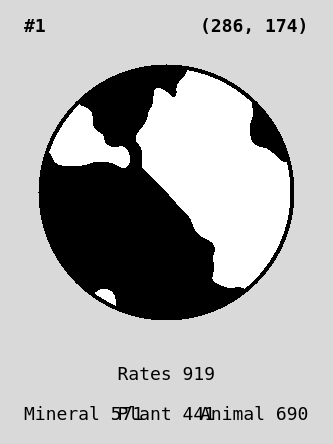
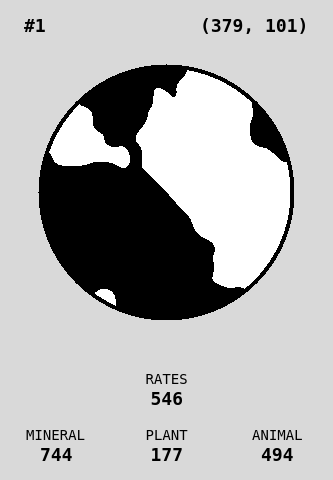
update planet text

diff --git a/index.js b/index.js
@@ -7,7 +7,7 @@ const { writeFileSync } = require('fs')
 const seed = 1
 
 const generatePlanet = () => {
-  const canvas = createCanvas(333, 444)
+  const canvas = createCanvas(333, 480)
   const ctx = canvas.getContext('2d')
 
   const SIZE = 256
@@ -94,23 +94,32 @@ const generatePlanet = () => {
   ctx.fillText(`(${Math.floor(Math.random() * 1000)}, ${Math.floor(Math.random() * 1000)})`, canvas.width - (8 * 3), 8 * 4)
 
   // put Rates
-  ctx.font = "18px Inconsolata"
   ctx.fillStyle = "black"
   ctx.textAlign = "center"
-  ctx.fillText(`Rates ${Math.floor(Math.random() * 1000)}`, canvas.width / 2, canvas.height - (8 * 8))
+  ctx.font = "14px Inconsolata"
+  ctx.fillText(`RATES`, canvas.width / 2, canvas.height - (8 * 12))
+  ctx.font = "bold 18px Inconsolata"
+  ctx.fillText(`${Math.floor(Math.random() * 1000)}`, canvas.width / 2, canvas.height - (8 * 12) + (1.5 * 14))
 
   // put materials
   ctx.fillStyle = "black"
   ctx.textAlign = "center"
-  ctx.fillText(`Plant ${Math.floor(Math.random() * 1000)}`, canvas.width / 2, canvas.height - (8 * 3))
+  ctx.font = "14px Inconsolata"
+  ctx.fillText(`PLANT`, canvas.width / 2, canvas.height - (8 * 5))
+  ctx.font = "bold 18px Inconsolata"
+  ctx.fillText(`${Math.floor(Math.random() * 1000)}`, canvas.width / 2, canvas.height - (8 * 5) + (1.5 * 14))
 
   ctx.fillStyle = "black"
-  ctx.textAlign = "left"
-  ctx.fillText(`Mineral ${Math.floor(Math.random() * 1000)}`, (8 * 3), canvas.height - (8 * 3))
+  ctx.font = "14px Inconsolata"
+  ctx.fillText(`MINERAL`, (8 * 7), canvas.height - (8 * 5))
+  ctx.font = "bold 18px Inconsolata"
+  ctx.fillText(`${Math.floor(Math.random() * 1000)}`, (8 * 7), canvas.height - (8 * 5) + (1.5 * 14))
 
   ctx.fillStyle = "black"
-  ctx.textAlign = "right"
-  ctx.fillText(`Animal ${Math.floor(Math.random() * 1000)}`, canvas.width - (8 * 3), canvas.height - (8 * 3))
+  ctx.font = "14px Inconsolata"
+  ctx.fillText(`ANIMAL`, canvas.width - (8 * 7), canvas.height - (8 * 5))
+  ctx.font = "bold 18px Inconsolata"
+  ctx.fillText(`${Math.floor(Math.random() * 1000)}`, canvas.width - (8 * 7), canvas.height - (8 * 5) + (1.5 * 14))
   const buf = canvas.toBuffer('image/png', { compressionLevel: 3, filters: canvas.PNG_FILTER_NONE })
 
   return buf
